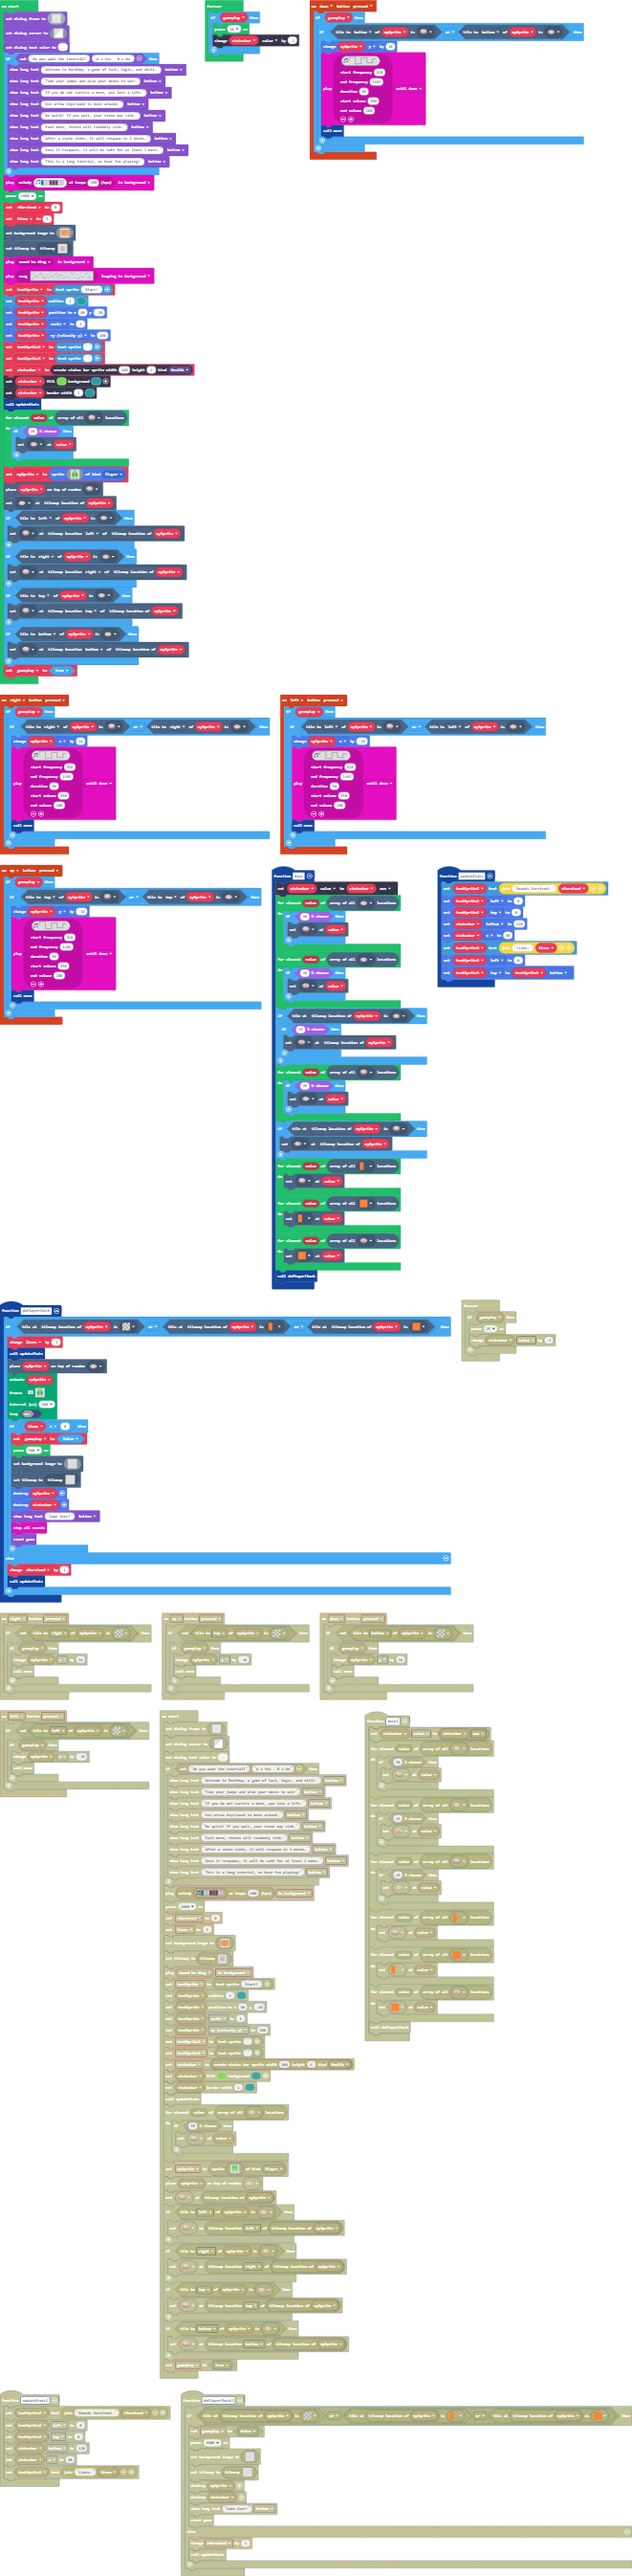
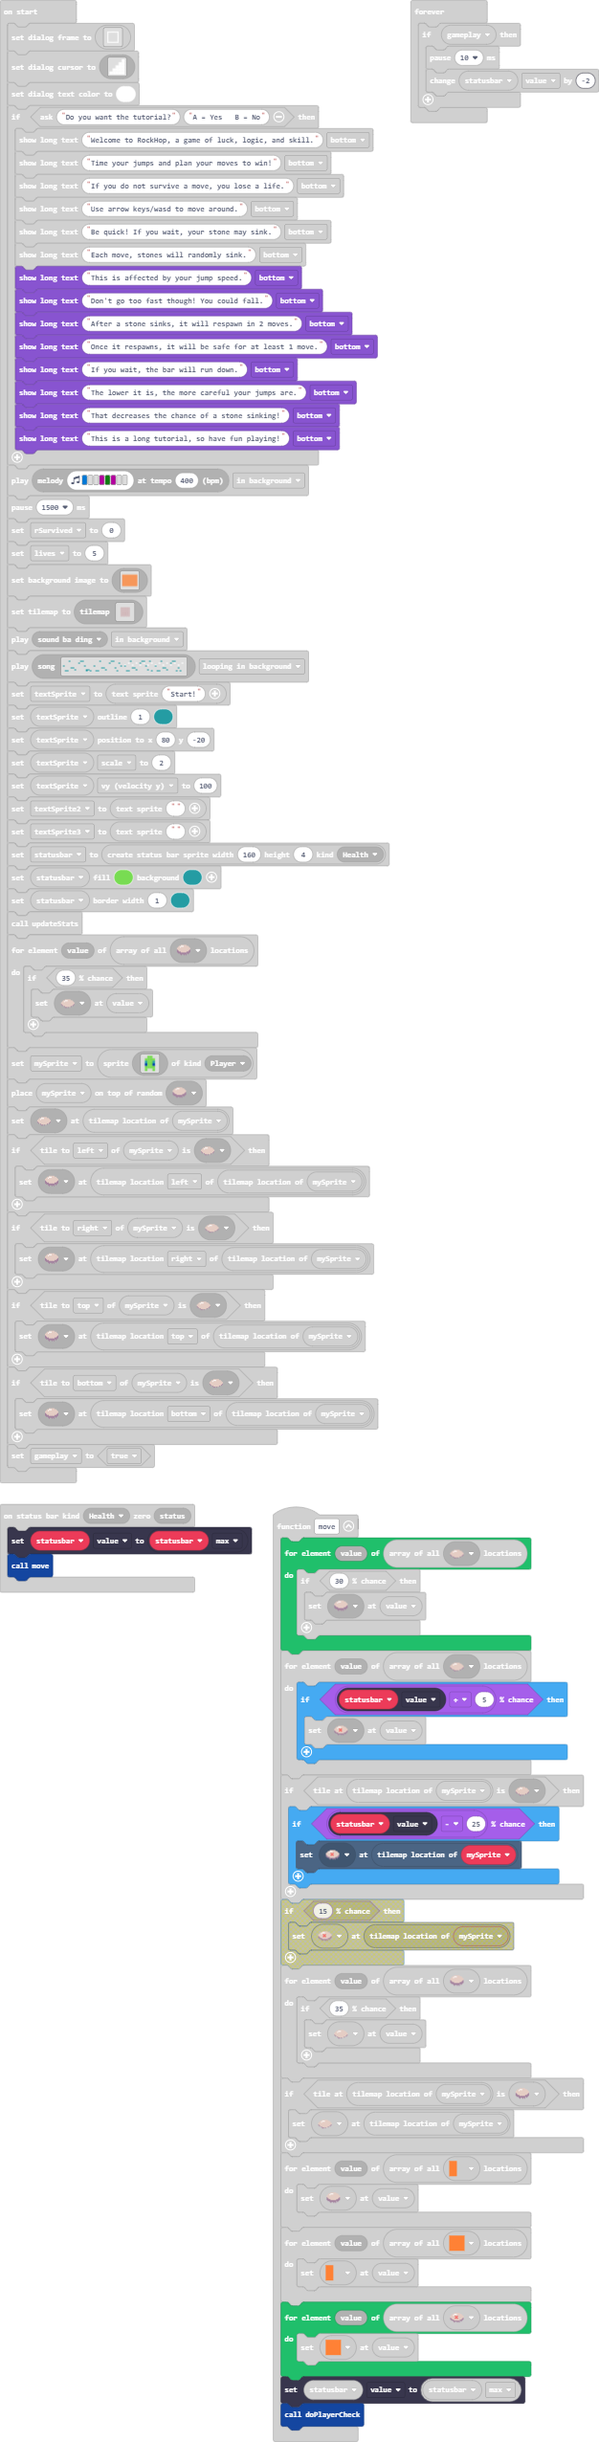
Update main.blocks, main.ts

diff --git a/main.ts b/main.ts
@@ -48,6 +48,7 @@ function updateStats () {
     textSprite3.top = textSprite2.bottom
 }
 statusbars.onZero(StatusBarKind.Health, function (status) {
+    statusbar.value = statusbar.max
     move()
 })
 controller.right.onEvent(ControllerButtonEvent.Pressed, function () {
@@ -298,19 +299,18 @@ controller.down.onEvent(ControllerButtonEvent.Pressed, function () {
     }
 })
 function move () {
-    statusbar.value = statusbar.max
     for (let value of tiles.getTilesByType(assets.tile`myTile`)) {
         if (Math.percentChance(30)) {
             tiles.setTileAt(value, assets.tile`myTile0`)
         }
     }
     for (let value of tiles.getTilesByType(assets.tile`myTile`)) {
-        if (Math.percentChance(10)) {
+        if (Math.percentChance(statusbar.value + 5)) {
             tiles.setTileAt(value, assets.tile`myTile2`)
         }
     }
     if (tiles.tileAtLocationEquals(mySprite.tilemapLocation(), assets.tile`myTile`)) {
-        if (Math.percentChance(15)) {
+        if (Math.percentChance(statusbar.value - 25)) {
             tiles.setTileAt(mySprite.tilemapLocation(), assets.tile`myTile2`)
         }
     }
@@ -331,6 +331,7 @@ function move () {
     for (let value of tiles.getTilesByType(assets.tile`myTile2`)) {
         tiles.setTileAt(value, assets.tile`myTile3`)
     }
+    statusbar.value = statusbar.max
     doPlayerCheck()
 }
 let gameplay = false
@@ -372,8 +373,13 @@ if (game.ask("Do you want the tutorial?", "A = Yes   B = No")) {
     game.showLongText("Use arrow keys/wasd to move around.", DialogLayout.Bottom)
     game.showLongText("Be quick! If you wait, your stone may sink.", DialogLayout.Bottom)
     game.showLongText("Each move, stones will randomly sink.", DialogLayout.Bottom)
+    game.showLongText("This is affected by your jump speed.", DialogLayout.Bottom)
+    game.showLongText("Don't go too fast though! You could fall.", DialogLayout.Bottom)
     game.showLongText("After a stone sinks, it will respawn in 2 moves.", DialogLayout.Bottom)
     game.showLongText("Once it respawns, it will be safe for at least 1 move.", DialogLayout.Bottom)
+    game.showLongText("If you wait, the bar will run down.", DialogLayout.Bottom)
+    game.showLongText("The lower it is, the more careful your jumps are.", DialogLayout.Bottom)
+    game.showLongText("That decreases the chance of a stone sinking!", DialogLayout.Bottom)
     game.showLongText("This is a long tutorial, so have fun playing!", DialogLayout.Bottom)
 }
 music.play(music.stringPlayable("E - - C G C - - ", 400), music.PlaybackMode.InBackground)
@@ -547,6 +553,6 @@ gameplay = true
 forever(function () {
     if (gameplay) {
         pause(10)
-        statusbar.value += -1
+        statusbar.value += -2
     }
 })
